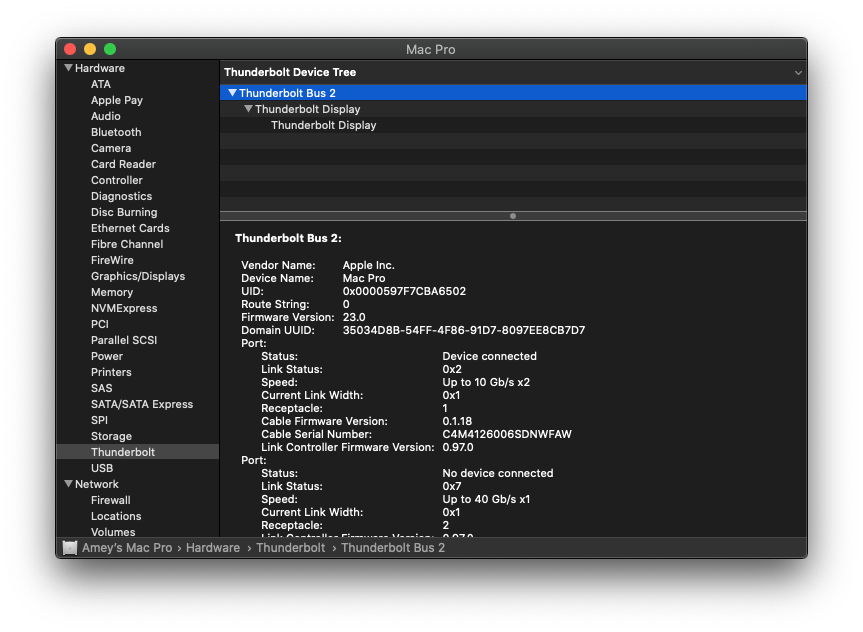
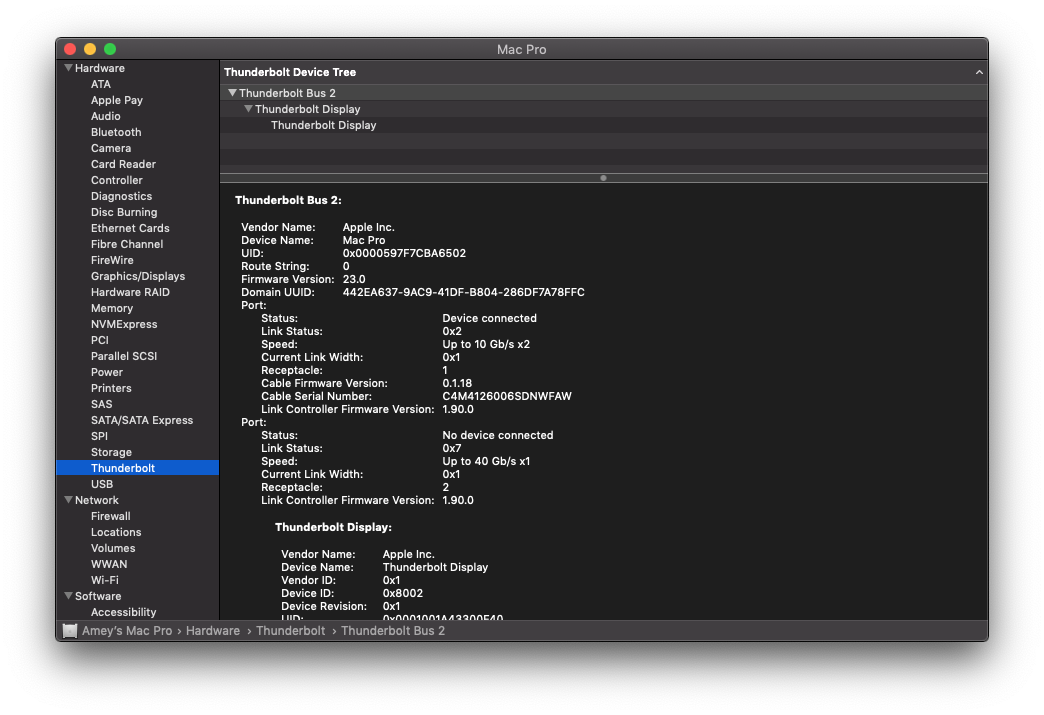
Updatating documentation documentation with OpenCore steps

Changed region(s): [[0.0301, 0.0301, 0.9641, 0.932]]

diff --git a/GC-TitanRidge.md b/GC-TitanRidge.md
@@ -152,7 +152,7 @@ Inner view:
 
 ### Find and mount EFI disk 
 
-> **Note:** Do this step below if you want to OpenCore your Mac. Again _I have not OpenCored my MacPro_.
+> **Note:** Do this steps listed below if you want to OpenCore your Mac.
 
 ```
 diskutil list
@@ -165,29 +165,53 @@ sudo mount -t msdos /dev/disk0s1 /Volumes/efi
 
 ### Copy Contents of MacPro5.1 OpenCore.zip file into the mounted EFI drive 
 
-> **Note:** Do this step below if you want to OpenCore your Mac. Again _I have not OpenCored my MacPro_.
-
-
 I already had a EFI folder within the drive. I got an alert asking to  merge or update the contents. I chose Merge. The Final folder looked like this:
 
 ![finder-copy-to-efi](./images/finder-copy-to-efi.png) 
 
 
-### Reboot one or twice into Recovery Mode
+### Bless EFI drive to enable OpenCore
 
-To boot into recovery mode hold down the command + R key after turning on the Mac Pro. Thunderbolt should be working after a normal boot now!!!
+> **Note:** I used my original graphic card while I was trying to boot into the recovery drive.
+
+To boot into recovery mode hold down the `Command (⌘) + R` key after turning on the Mac Pro.
+
+![image-keyboard-recovery](./images/image-keyboard-recovery.png)
+
+Follow the [instructions](https://forums.macrumors.com/threads/opencore-on-the-mac-pro.2207814/) on the official OpenCore documentation to OpenCore your Mac. This includes the following:
+
+Open the terminal and run the following commands to make your EFI drive bootable (bless)
+
+- Figure out the EFI disk using the `diskutil list`
+- Mounting the EFI drive using the command `diskutil mount /dev/{efi_disk}`
+- Set the mounted EFI partition for booting `bless --mount /Volumes/EFI --setBoot`
+- Shut down the Mac and do an SMC reset (unplug the power cord, wait 15 seconds, plug the power cord back in, wait 5 seconds, and then press the power button)
+
+
+### Boot to see the OpenCore boot screen
+
+You should see the OpenCore boot screen on your next boot.
+
+![image-OpenCore-Boot-Screen](./images/image-OpenCore-Boot-Screen.png)
+
+
+### View System Report of your MacPro
 
 ![system-report-thunderbolt](./images/system-report-thunderbolt.png)
 
 After the Apple Thunderbolt Displays are connected to the system they work in Daisy Chaining and the following is shown in the System report. I have also tried to Hot Swap the displays successfully.
 
+
 ![system-report-thunderbolt-working](./images/system-report-thunderbolt-working.png)
+
+
+The cars is also detected successfully in the PIC as a thunderbolt and USB 3.1 device.
+
+![system-report-pci-slot-4-thunderbolt-detected](./images/system-report-pci-slot-4-thunderbolt-detected.png)
 
 
 ### TODOs:
 
-I will try the following things in the future:
-- Get OpenCore to work on my system - [Link](https://forums.macrumors.com/threads/testing-tb3-aic-with-mp-5-1.2143042/post-28261032)
 - USB 2.0 Support - [Link](https://forums.macrumors.com/threads/testing-tb3-aic-with-mp-5-1.2143042/post-28294229)
 
 ### Thunderbolt device tested
@@ -210,7 +234,7 @@ I have tested this is working on the following Operating Systems:
 Issues that I have notices so far:
 
 - ~~Hot swap devices works till at-least one device is connected to the GC-TITAN RIDGE card. I have only tried this with my thunderbolt displays if I connect one display to the card and leave it connected to the the card I can disconnect the second from the card or daisy chain and works after reconnecting. But if I remove both and try to reconnect then none of them work.~~ Solved by Connect pin 3 and pin 5 of jumper refer this section above.
-- ~~I am using A pair of Apple Thunderbolt Display and have notices that the brightness functionality and USB ports behind the Thunderbolt display do not work.~~ Restart your system after a cold boot to enable USB and FaceTime HD Cameras on the Apple Thunderbold displays. 
+- ~~I am using A pair of Apple Thunderbolt Display and have notices that the brightness functionality and USB ports behind the Thunderbolt display do not work.~~ Restart your system after a cold boot to enable USB and FaceTime HD Cameras on the Apple Thunderbolt displays. 
 
 ## Useful Links
 
